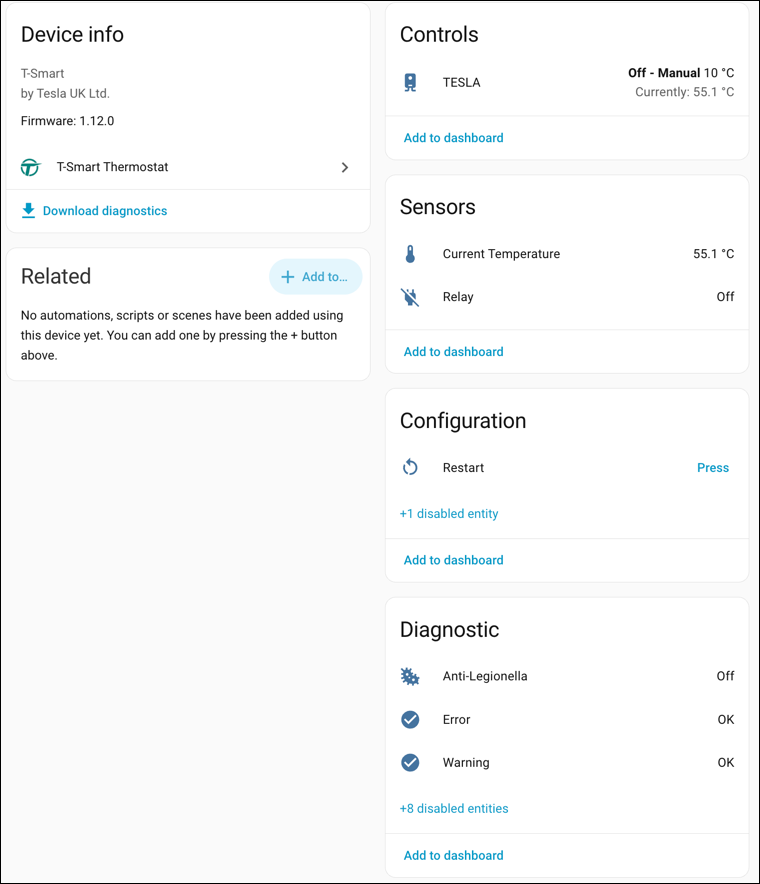
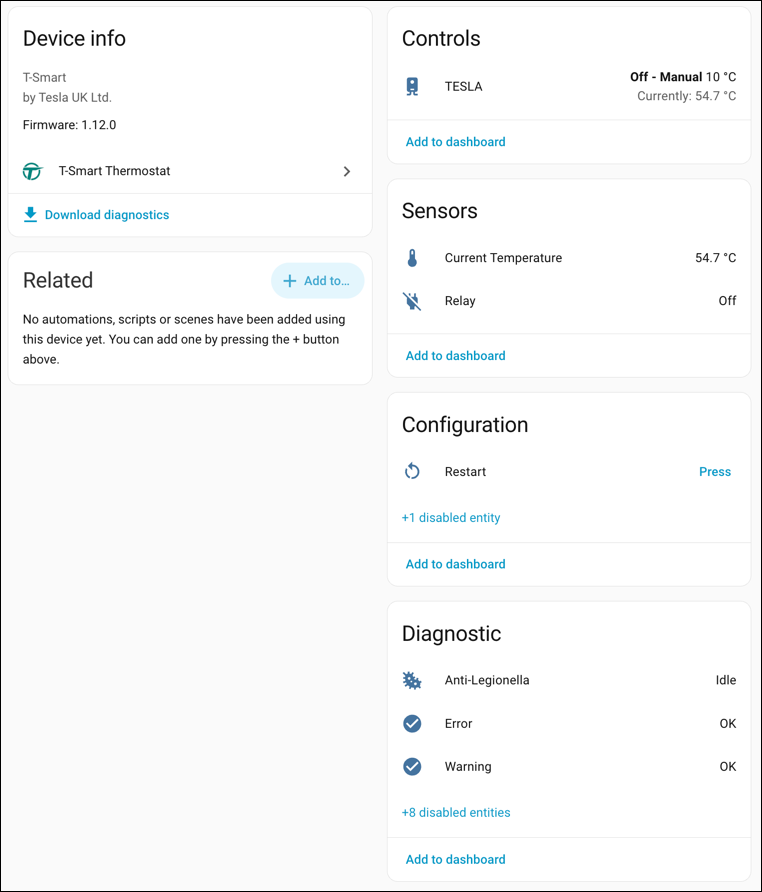
Update descriptions

diff --git a/README.md b/README.md
@@ -11,7 +11,7 @@ The integration provides a climate control with preset modes, current temperatur
 
 Error and warning binary problem sensors (on when there's a problem) with attributes for error/warning codes are also provided for diagnostic purposes.
 
-An Anti-Legionella diagnostic sensor shows when the automatic anti-legionella cycle is active. Anti-Legionella cannot be disabled; it runs on the device automatically when your water temperature has not been sufficient to kill the bacteria, provided the T-Smart is not off.
+An Anti-Legionella diagnostic sensor shows when the automatic anti-legionella cycle is running. Anti-Legionella cannot be disabled; it runs on the device automatically when your water temperature has not been sufficient to kill the bacteria, provided the T-Smart is not off.
 
 Additional binary sensors for each error and warning are available but disabled by default.
 
